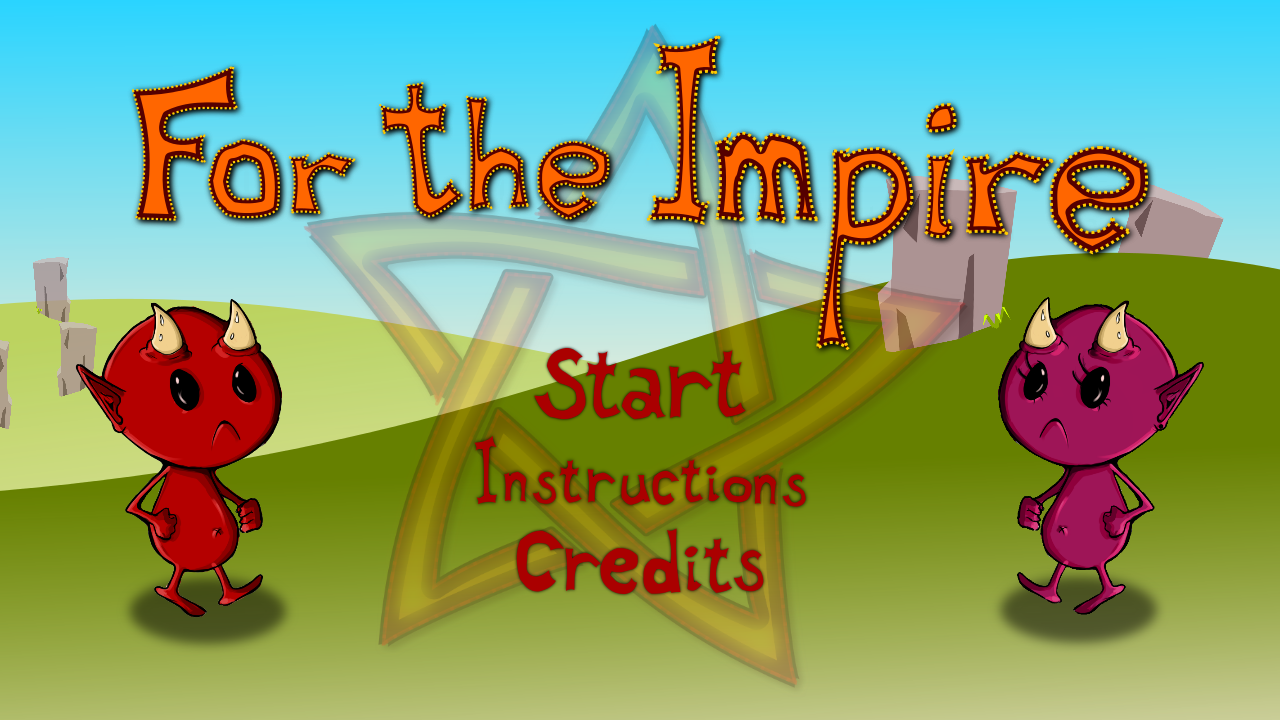
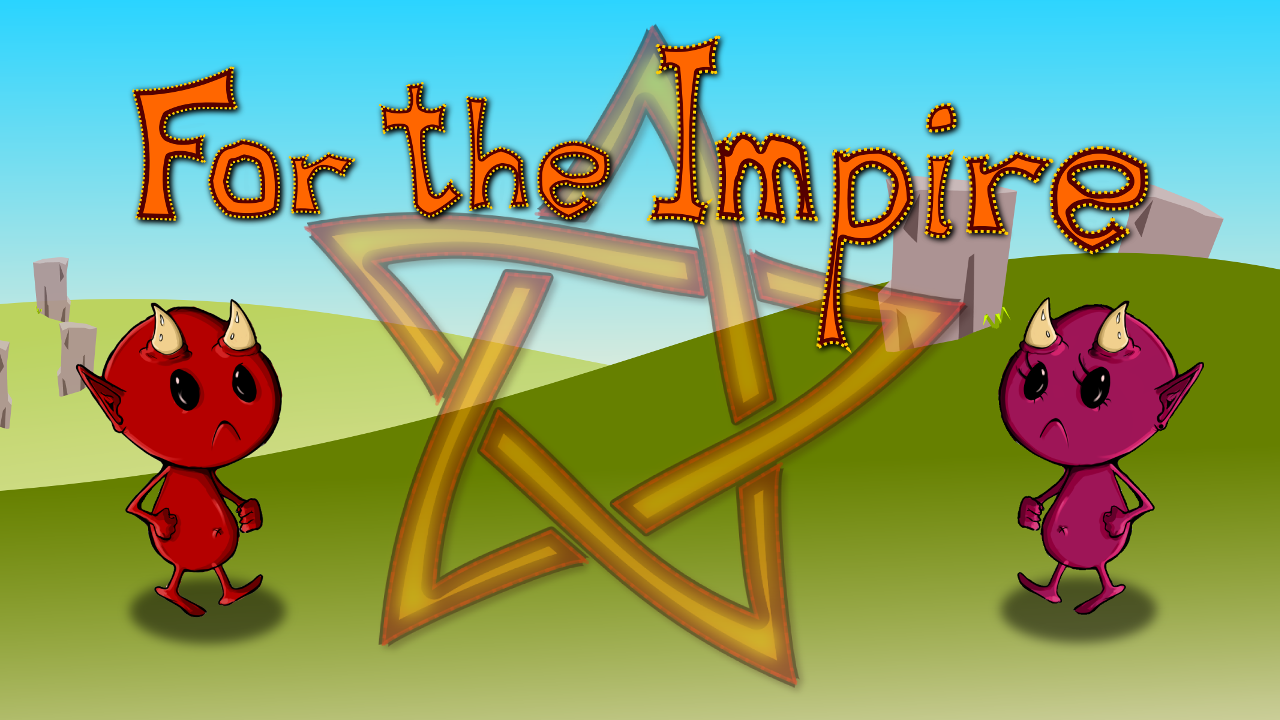
UI Tweaks
Add button spritesheets and support for scaling.

Changed region(s): [[0.2188, 0.0306, 0.75, 0.9472], [0.9062, 0.5194, 0.9375, 0.5806]]

diff --git a/public/js/game/screens/menu.js b/public/js/game/screens/menu.js
@@ -10,20 +10,38 @@ menuScreen.prototype = {
 
 
     // Create clickable buttons
-    startBtn = game.add.button(game.world.centerX - 130, 227, 'sprite_btn_start', function() {
+    var buttonScale = 0.65;
+    var buttonHeight = (117 * buttonScale);
+    var buttonVerticalSpacing = 30 * buttonScale;
+    var buttonStartFromBottom = 50;
+
+
+    var creditBtnX = game.world.centerX - (174 * buttonScale);
+    var creditBtnY = constants.screenHeight - buttonHeight - buttonStartFromBottom;
+
+    var instructionBtnX = game.world.centerX - (223 * buttonScale);
+    var instructionBtnY = creditBtnY - buttonVerticalSpacing - buttonHeight;
+
+    var startBtnX = game.world.centerX - (135 * buttonScale);
+    var startBtnY = instructionBtnY - buttonVerticalSpacing - buttonHeight;
+
+
+    console.log(creditBtnY);
+
+    startBtn = game.add.button(startBtnX, startBtnY, 'spritesheet_start_button', function() {
       game.state.start("GamePlayScreen");
     }, this, 2, 1, 0);
     startBtn.scale.setTo(0.65, 0.65);
 
-    instructionBtn = game.add.button(game.world.centerX - 130, 288, 'sprite_btn_instruction', function() {
+    instructionBtn = game.add.button(instructionBtnX, instructionBtnY, 'spritesheet_instruction_button', function() {
       game.state.start("InstructionScreen");
     }, this, 2, 1, 0);
     instructionBtn.scale.setTo(0.65, 0.65);
 
-    creditBtn = game.add.button(game.world.centerX - 130, 348, 'sprite_btn_credit', function() {
+    creditBtn = game.add.button(creditBtnX, creditBtnY, 'spritesheet_credit_button', function() {
       game.state.start("CreditScreen");
     }, this, 2, 1, 0);
-    creditBtn.scale.setTo(0.65, 0.65);
+    creditBtn.scale.setTo(buttonScale, buttonScale);
   },
 
   update: function(){}
